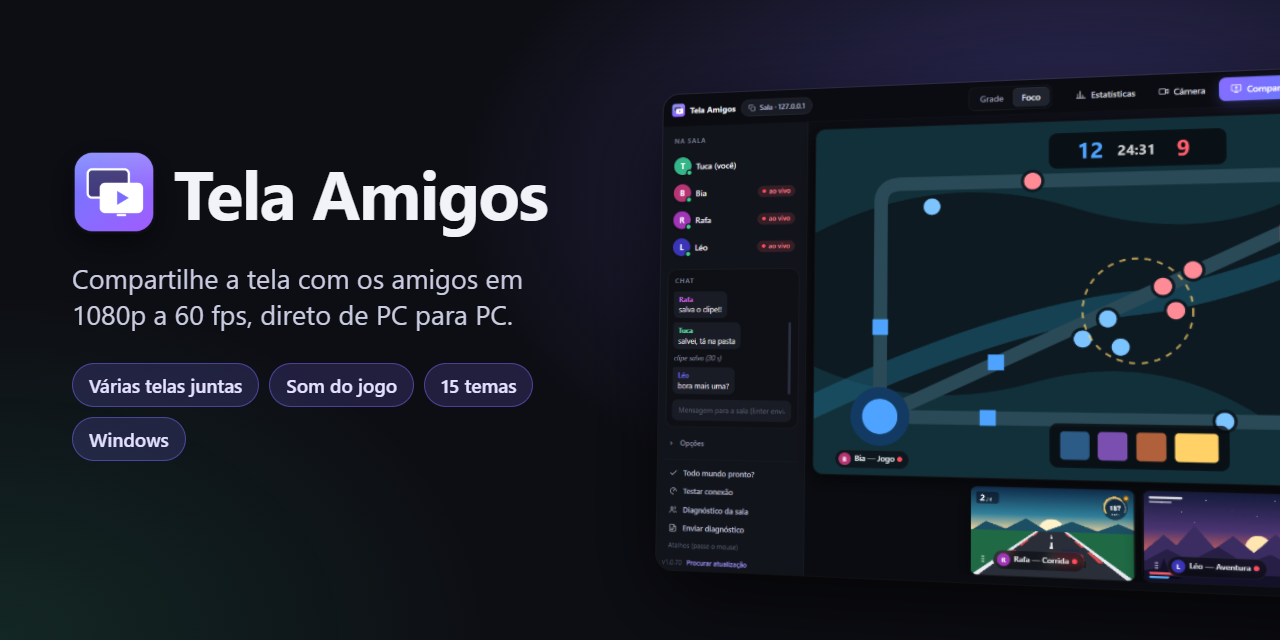
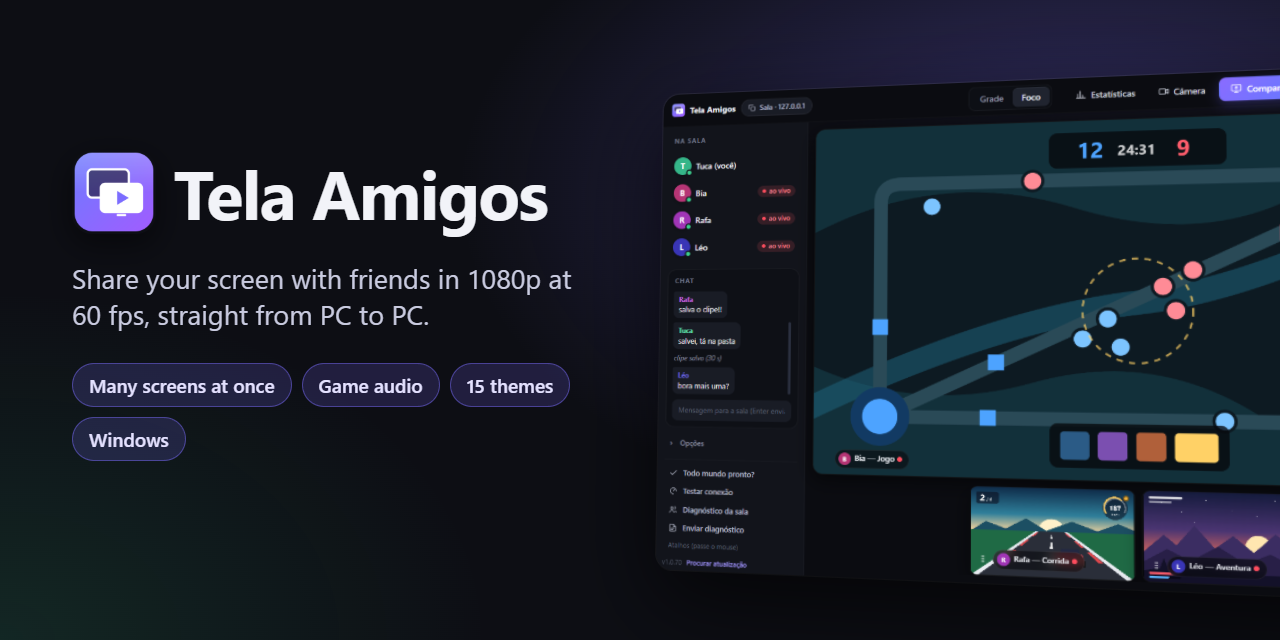
Página do GitHub em inglês
README.md em inglês (com o aviso de que o app é em português), a versão em português em README.pt-BR.md, links
entre as duas e a imagem de prévia (docs/img/capa.png) em inglês.

Changed region(s): [[0.0625, 0.4062, 0.4375, 0.5312], [0.0625, 0.5625, 0.4688, 0.6562]]

diff --git a/README.md b/README.md
@@ -4,95 +4,99 @@
 
 # Tela Amigos
 
-**Compartilhe a tela com os amigos em 1080p a 60 fps, direto de PC para PC.**<br>
-Para jogar junto, assistir junto e mostrar o que você está fazendo, com várias telas ao mesmo tempo.
+**Share your screen with friends in 1080p at 60 fps, straight from PC to PC.**<br>
+For playing together, watching together and showing what you're up to, with several screens at once.
 
-[![Baixar para Windows](https://img.shields.io/github/v/release/Dollyeee/tela-amigos?label=Baixar%20para%20Windows&style=for-the-badge&color=6c5cff)](https://github.com/Dollyeee/tela-amigos/releases/latest)
+[![Download for Windows](https://img.shields.io/github/v/release/Dollyeee/tela-amigos?label=Download%20for%20Windows&style=for-the-badge&color=6c5cff)](https://github.com/Dollyeee/tela-amigos/releases/latest)
 
-<img src="docs/img/sala.png" width="900" alt="Uma sala do Tela Amigos: a tela da Bia em destaque, as do Rafa e do Léo em miniatura, a lista de quem está na sala e o chat ao lado">
+English · [Português](README.pt-BR.md)
+
+<img src="docs/img/sala.png" width="900" alt="A Tela Amigos room: Bia's screen in focus, Rafa's and Léo's as thumbnails, the people in the room and the chat on the side">
 
 </div>
 
-## O que dá para fazer
+> The app's interface is in Brazilian Portuguese.
 
-- **Todo mundo transmite ao mesmo tempo.** Uma tela em destaque e as outras em miniatura, ou todas lado a lado na grade.
-- **Imagem de verdade:** 1080p a 60 fps (ou a resolução do seu monitor), codificada na placa de vídeo em H.264, H.265 ou AV1, com o som do jogo ou do PC. O som do Discord fica de fora, para não dar eco.
-- **Direto de PC para PC**, pela rede do **Radmin VPN** (ou Hamachi, Tailscale, rede local) ou por uma **sala online** com código, sem VPN nenhuma.
-- **Se adapta à internet de cada amigo:** quem tem a rede fraca recebe uma versão mais leve, sem puxar a qualidade dos outros para baixo.
-- **Desenhe, aponte e reaja** em cima da tela do amigo. Ele vê os riscos, a mãozinha e os emotes no próprio monitor, por cima do jogo, sem aparecer na transmissão.
-- **Salve um clipe** dos últimos 30 segundos, grave sem limite de tempo ou tire uma foto da tela de qualquer um.
-- **Sobreposição:** a tela de um amigo numa janelinha sempre por cima do jogo.
-- **Assistir junto:** o "Todo mundo pronto?" conta 3, 2, 1 e dá play no vídeo na hora certa.
-- **Chat, câmera, zoom e volume por amigo** (até 300%), com o som de todos nivelado.
-- **15 temas** para mudar a cara do app, cada um com os próprios emotes, animações e jeito de desenhar.
+## What it does
+
+- **Everyone can stream at the same time.** One screen in focus and the others as thumbnails, or all of them side by side in a grid.
+- **Real image quality:** 1080p at 60 fps (or your monitor's resolution), encoded on the graphics card in H.264, H.265 or AV1, with the sound of your game or PC. Discord's audio is left out, so there's no echo.
+- **Straight from PC to PC**, over a **Radmin VPN** network (or Hamachi, Tailscale, your local network) or through an **online room** with a code, no VPN needed.
+- **Adapts to each friend's connection:** someone on a weak network gets a lighter version, without dragging everyone else's quality down.
+- **Draw, point and react** on top of a friend's screen. They see the strokes, the pointing hand and the emotes on their own monitor, over the game, without any of it showing up in the stream.
+- **Save a clip** of the last 30 seconds, record with no time limit, or take a snapshot of anyone's screen.
+- **Overlay:** keep a friend's screen in a small window always on top of your game.
+- **Watch together:** "Todo mundo pronto?" (everyone ready?) counts down 3, 2, 1 and hits play on the video at the right moment.
+- **Chat, webcam, zoom and per-friend volume** (up to 300%), with everyone's audio leveled.
+- **15 themes** to change the look of the app, each with its own emotes, animations and drawing style.
 
 <div align="center">
-<img src="docs/img/caneta.png" width="820" alt="Riscos, mãozinhas e emotes dos amigos em cima da tela da Bia">
+<img src="docs/img/caneta.png" width="820" alt="Friends' strokes, pointing hands and emotes on top of Bia's screen">
 </div>
 
-## Começar
+## Getting started
 
-1. **Baixe** o `TelaAmigos-Setup-x.y.z.exe` em [Releases](https://github.com/Dollyeee/tela-amigos/releases/latest) e abra. Ele instala só para o seu usuário, sem pedir administrador, e depois **se atualiza sozinho**.
-   > O instalador não tem assinatura digital paga, então o Windows pode mostrar "O Windows protegeu o computador". Clique em **Mais informações → Executar assim mesmo** (só na instalação).
-2. **Entre numa sala**, de um destes jeitos:
-   - **Radmin VPN** (a melhor qualidade): todos na mesma rede do Radmin. Uma pessoa clica em **Hospedar sala**; os outros veem a sala em **Salas abertas** e clicam em **Entrar**. Na primeira vez, quem hospeda libera o firewall do Windows (marque redes públicas e privadas).
-   - **Sala online** (sem VPN): uma pessoa clica em **Criar sala online** e manda o código de 6 letras; os outros digitam o código e entram.
-3. Clique em **Compartilhar tela**, escolha a tela ou a janela, e pronto.
+1. **Download** `TelaAmigos-Setup-x.y.z.exe` from [Releases](https://github.com/Dollyeee/tela-amigos/releases/latest) and run it. It installs just for your user, with no admin rights, and then **updates itself**.
+   > The installer isn't signed with a paid certificate, so Windows may show "Windows protected your PC". Click **More info → Run anyway** (only when installing).
+2. **Join a room**, in one of these ways:
+   - **Radmin VPN** (best quality): everyone on the same Radmin network. One person clicks **Hospedar sala** (host a room); the others see it under **Salas abertas** (open rooms) and click **Entrar** (join). The first time, whoever hosts allows the app through the Windows firewall (tick both public and private networks).
+   - **Online room** (no VPN): one person clicks **Criar sala online** (create an online room) and sends the 6-character code; the others type the code and join.
+3. Click **Compartilhar tela** (share screen), pick a screen or a window, and you're live.
 
 <div align="center">
-<img src="docs/img/entrada.png" width="720" alt="A tela de entrada: o seu nome, hospedar uma sala ou entrar numa das salas abertas">
+<img src="docs/img/entrada.png" width="720" alt="The start screen: your name, host a room or join one of the open rooms">
 </div>
 
-## Temas
+## Themes
 
-Clique em **Tema**, no rodapé da tela de entrada ou em **Opções**, e escolha. Muda na hora e só no seu PC: cada amigo usa o que quiser.
+Click **Tema**, at the bottom of the start screen or in **Opções** (options), and pick one. It changes right away and only on your PC: each friend uses whichever they like.
 
 <div align="center">
-<img src="docs/img/temas.png" width="820" alt="A tela de escolher tema, com a prévia dos 15 temas">
+<img src="docs/img/temas.png" width="820" alt="The theme picker, previewing all 15 themes">
 <br><br>
-<img src="docs/img/temas-exemplos.png" width="820" alt="A mesma sala nos temas Cyberpunk, Gibi, Taverna e Disquete">
+<img src="docs/img/temas-exemplos.png" width="820" alt="The same room in the Cyberpunk, Gibi, Taverna and Disquete themes">
 </div>
 
-## Perguntas
+## FAQ
 
 <details>
-<summary><b>Preciso de uma placa de vídeo boa?</b></summary>
+<summary><b>Do I need a good graphics card?</b></summary>
 
-Ajuda bastante: a imagem é codificada na placa (NVIDIA, AMD ou Intel), quase sem pesar no jogo. Sem ela, o processador faz esse trabalho. Funciona, mas pesa mais, e o app avisa quando isso acontece.
+It helps a lot: the image is encoded on the graphics card (NVIDIA, AMD or Intel), with almost no impact on your game. Without one, the processor does the work. It still works, but it's heavier, and the app tells you when that happens.
 </details>
 
 <details>
-<summary><b>Funciona em qual sistema?</b></summary>
+<summary><b>Which systems does it run on?</b></summary>
 
-Windows 10 e 11, de 64 bits.
+Windows 10 and 11, 64-bit.
 </details>
 
 <details>
-<summary><b>O jogo engasga quando eu transmito. O que faço?</b></summary>
+<summary><b>My game stutters when I stream. What can I do?</b></summary>
 
-Limite o FPS do jogo um pouco abaixo da taxa do monitor (por exemplo, 141 num monitor de 144 Hz). A placa fica com folga e a transmissão e o jogo ficam lisos.
+Cap your game's FPS a little below your monitor's refresh rate (for example, 141 on a 144 Hz monitor). The graphics card gets some headroom and both the stream and the game run smoothly.
 </details>
 
 <details>
-<summary><b>Meus amigos veem o meu tema?</b></summary>
+<summary><b>Do my friends see my theme?</b></summary>
 
-Não. O tema vale só no seu PC. Os emotes que você manda chegam para cada amigo no tema dele.
+No. The theme only applies on your PC. The emotes you send show up for each friend in their own theme.
 </details>
 
 <details>
-<summary><b>Por onde passa a minha tela?</b></summary>
+<summary><b>Where does my screen go?</b></summary>
 
-Pelo Radmin, direto do seu PC para o de cada amigo, sem servidor no meio. Na sala online o vídeo também vai direto pela internet; pelo servidor da sala passam as mensagens de conexão (quem entrou, o chat). Se você ligar a opção **"Servidor de vídeo quando precisar"**, a sua tela pode passar por um servidor de vídeo quando o seu upload não dá conta de mandar uma cópia para cada amigo.
+Over Radmin, straight from your PC to each friend's, with no server in between. In an online room the video also goes directly over the internet; only the connection messages (who joined, the chat) go through the room server. If you turn on **"Servidor de vídeo quando precisar"** (video server when needed), your screen may go through a video server when your upload can't keep up with sending a copy to each friend.
 </details>
 
 <details>
-<summary><b>Deu problema. E agora?</b></summary>
+<summary><b>Something went wrong. Now what?</b></summary>
 
-Clique em **Enviar diagnóstico**. O app gera um arquivo na Área de Trabalho com tudo o que ajuda a achar o problema; mande para quem cuida do app.
+Click **Enviar diagnóstico** (send diagnostics). The app saves a file to your Desktop with everything that helps track the problem down; send it to whoever looks after the app.
 </details>
 
-## Como funciona
+## How it works
 
-O app é feito em Electron e usa WebRTC para levar o vídeo e o som. Um programa auxiliar em C# captura a tela pelo próprio Windows (Windows Graphics Capture ou DXGI), codifica na placa de vídeo pelo Media Foundation e captura o som de cada programa separado. A sala pelo Radmin é um servidor pequeno que roda no PC de quem hospeda; a sala online e o servidor de vídeo opcional rodam na Cloudflare.
+The app is built with Electron and uses WebRTC to carry video and audio. A helper program written in C# captures the screen through Windows itself (Windows Graphics Capture or DXGI), encodes it on the graphics card through Media Foundation, and captures each program's audio separately. A Radmin room is a small server running on the host's PC; online rooms and the optional video server run on Cloudflare.
 
-O detalhe de cada recurso e como desenvolver estão no [LEIA-ME](LEIA-ME.md). O que mudou em cada versão está em [Releases](https://github.com/Dollyeee/tela-amigos/releases).
+Every feature in detail, and how to build the app, is in the [LEIA-ME](LEIA-ME.md) (in Portuguese). What changed in each version is under [Releases](https://github.com/Dollyeee/tela-amigos/releases).

diff --git a/README.pt-BR.md b/README.pt-BR.md
@@ -1,0 +1,100 @@
+<div align="center">
+
+<img src="build/icon.png" width="88" alt="">
+
+# Tela Amigos
+
+**Compartilhe a tela com os amigos em 1080p a 60 fps, direto de PC para PC.**<br>
+Para jogar junto, assistir junto e mostrar o que você está fazendo, com várias telas ao mesmo tempo.
+
+[![Baixar para Windows](https://img.shields.io/github/v/release/Dollyeee/tela-amigos?label=Baixar%20para%20Windows&style=for-the-badge&color=6c5cff)](https://github.com/Dollyeee/tela-amigos/releases/latest)
+
+[English](README.md) · Português
+
+<img src="docs/img/sala.png" width="900" alt="Uma sala do Tela Amigos: a tela da Bia em destaque, as do Rafa e do Léo em miniatura, a lista de quem está na sala e o chat ao lado">
+
+</div>
+
+## O que dá para fazer
+
+- **Todo mundo transmite ao mesmo tempo.** Uma tela em destaque e as outras em miniatura, ou todas lado a lado na grade.
+- **Imagem de verdade:** 1080p a 60 fps (ou a resolução do seu monitor), codificada na placa de vídeo em H.264, H.265 ou AV1, com o som do jogo ou do PC. O som do Discord fica de fora, para não dar eco.
+- **Direto de PC para PC**, pela rede do **Radmin VPN** (ou Hamachi, Tailscale, rede local) ou por uma **sala online** com código, sem VPN nenhuma.
+- **Se adapta à internet de cada amigo:** quem tem a rede fraca recebe uma versão mais leve, sem puxar a qualidade dos outros para baixo.
+- **Desenhe, aponte e reaja** em cima da tela do amigo. Ele vê os riscos, a mãozinha e os emotes no próprio monitor, por cima do jogo, sem aparecer na transmissão.
+- **Salve um clipe** dos últimos 30 segundos, grave sem limite de tempo ou tire uma foto da tela de qualquer um.
+- **Sobreposição:** a tela de um amigo numa janelinha sempre por cima do jogo.
+- **Assistir junto:** o "Todo mundo pronto?" conta 3, 2, 1 e dá play no vídeo na hora certa.
+- **Chat, câmera, zoom e volume por amigo** (até 300%), com o som de todos nivelado.
+- **15 temas** para mudar a cara do app, cada um com os próprios emotes, animações e jeito de desenhar.
+
+<div align="center">
+<img src="docs/img/caneta.png" width="820" alt="Riscos, mãozinhas e emotes dos amigos em cima da tela da Bia">
+</div>
+
+## Começar
+
+1. **Baixe** o `TelaAmigos-Setup-x.y.z.exe` em [Releases](https://github.com/Dollyeee/tela-amigos/releases/latest) e abra. Ele instala só para o seu usuário, sem pedir administrador, e depois **se atualiza sozinho**.
+   > O instalador não tem assinatura digital paga, então o Windows pode mostrar "O Windows protegeu o computador". Clique em **Mais informações → Executar assim mesmo** (só na instalação).
+2. **Entre numa sala**, de um destes jeitos:
+   - **Radmin VPN** (a melhor qualidade): todos na mesma rede do Radmin. Uma pessoa clica em **Hospedar sala**; os outros veem a sala em **Salas abertas** e clicam em **Entrar**. Na primeira vez, quem hospeda libera o firewall do Windows (marque redes públicas e privadas).
+   - **Sala online** (sem VPN): uma pessoa clica em **Criar sala online** e manda o código de 6 letras; os outros digitam o código e entram.
+3. Clique em **Compartilhar tela**, escolha a tela ou a janela, e pronto.
+
+<div align="center">
+<img src="docs/img/entrada.png" width="720" alt="A tela de entrada: o seu nome, hospedar uma sala ou entrar numa das salas abertas">
+</div>
+
+## Temas
+
+Clique em **Tema**, no rodapé da tela de entrada ou em **Opções**, e escolha. Muda na hora e só no seu PC: cada amigo usa o que quiser.
+
+<div align="center">
+<img src="docs/img/temas.png" width="820" alt="A tela de escolher tema, com a prévia dos 15 temas">
+<br><br>
+<img src="docs/img/temas-exemplos.png" width="820" alt="A mesma sala nos temas Cyberpunk, Gibi, Taverna e Disquete">
+</div>
+
+## Perguntas
+
+<details>
+<summary><b>Preciso de uma placa de vídeo boa?</b></summary>
+
+Ajuda bastante: a imagem é codificada na placa (NVIDIA, AMD ou Intel), quase sem pesar no jogo. Sem ela, o processador faz esse trabalho. Funciona, mas pesa mais, e o app avisa quando isso acontece.
+</details>
+
+<details>
+<summary><b>Funciona em qual sistema?</b></summary>
+
+Windows 10 e 11, de 64 bits.
+</details>
+
+<details>
+<summary><b>O jogo engasga quando eu transmito. O que faço?</b></summary>
+
+Limite o FPS do jogo um pouco abaixo da taxa do monitor (por exemplo, 141 num monitor de 144 Hz). A placa fica com folga e a transmissão e o jogo ficam lisos.
+</details>
+
+<details>
+<summary><b>Meus amigos veem o meu tema?</b></summary>
+
+Não. O tema vale só no seu PC. Os emotes que você manda chegam para cada amigo no tema dele.
+</details>
+
+<details>
+<summary><b>Por onde passa a minha tela?</b></summary>
+
+Pelo Radmin, direto do seu PC para o de cada amigo, sem servidor no meio. Na sala online o vídeo também vai direto pela internet; pelo servidor da sala passam as mensagens de conexão (quem entrou, o chat). Se você ligar a opção **"Servidor de vídeo quando precisar"**, a sua tela pode passar por um servidor de vídeo quando o seu upload não dá conta de mandar uma cópia para cada amigo.
+</details>
+
+<details>
+<summary><b>Deu problema. E agora?</b></summary>
+
+Clique em **Enviar diagnóstico**. O app gera um arquivo na Área de Trabalho com tudo o que ajuda a achar o problema; mande para quem cuida do app.
+</details>
+
+## Como funciona
+
+O app é feito em Electron e usa WebRTC para levar o vídeo e o som. Um programa auxiliar em C# captura a tela pelo próprio Windows (Windows Graphics Capture ou DXGI), codifica na placa de vídeo pelo Media Foundation e captura o som de cada programa separado. A sala pelo Radmin é um servidor pequeno que roda no PC de quem hospeda; a sala online e o servidor de vídeo opcional rodam na Cloudflare.
+
+O detalhe de cada recurso e como desenvolver estão no [LEIA-ME](LEIA-ME.md). O que mudou em cada versão está em [Releases](https://github.com/Dollyeee/tela-amigos/releases).

diff --git a/LEIA-ME.md b/LEIA-ME.md
@@ -160,7 +160,7 @@ Requer Node.js, .NET 10 SDK e `gh` logado.
 número que a versão vai ter e em linguagem de quem usa o app. É o que a tela de novidades mostra aos amigos; sem ela o
 release para logo no começo (`--no-notes` publica assim mesmo: nessa versão a tela não abre).
 O mesmo texto vira a descrição da versão na página de Releases do GitHub (`scripts/release-notes.js`; `node scripts/release-notes.js --atualizar` reescreve as versões antigas que têm Novidades). A página inicial do
-repositório é o `README.md`, com as imagens em `docs/img` (`capa.png` é a imagem de prévia do link, que se põe à mão
+repositório é o `README.md` (em inglês; em português: `README.pt-BR.md`), com as imagens em `docs/img` (`capa.png` é a imagem de prévia do link, que se põe à mão
 em Settings → Social preview).
 
 Testes (todos sem som; duas cópias escondidas do app na porta 47911, um de cada vez):
